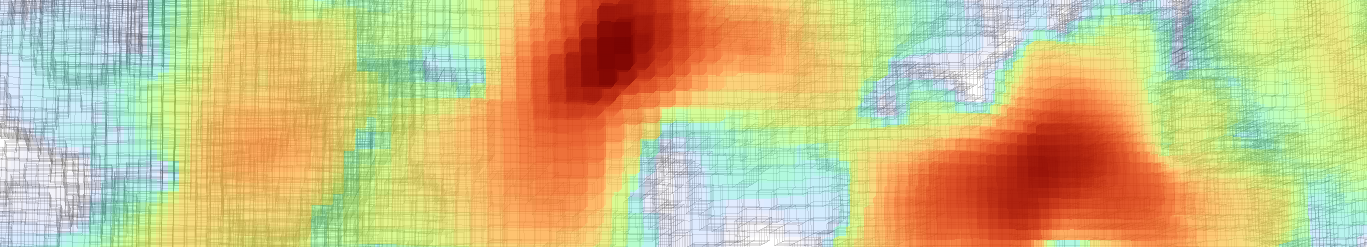
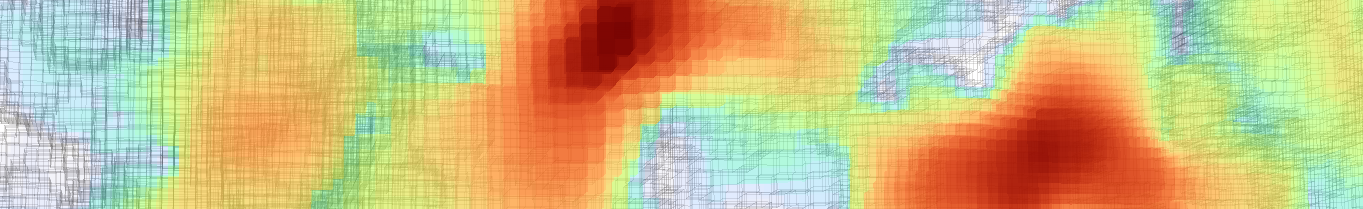
readme

diff --git a/README.md b/README.md
@@ -6,9 +6,12 @@
 
 `seevol` analyses line-of-sight visibility in 3D binary volumes, where 0 represents a solid/opaque voxel, and 1 represents open/transparent voxels. 
 
-The core functionality is based on the Amanatides & Woo voxel traversal algorithm <sup>1</sup> pair visibility and is implemented in C++ to compute straight line visibility between all pairs of open (non solid) voxels in a given volume.  
+The core functionality is based on the Amanatides & Woo voxel traversal algorithm <sup>1</sup> and is implemented in C++ to compute straight line visibility between all pairs of open (non solid) voxels in a given volume.  
 
-This tool tests visibility between all open pairs throughout the volume, allowing per-voxel visibility analysis metrics to be calculated downstream for every open voxel.
+This tool tests visibility between **all** open pairs throughout the volume, which permits per-voxel visibility analysis metrics to be calculated downstream for every open voxel.
+
+> [!WARNING]
+> `seevol` computes all-pairs visibility, which scales as O(open_voxels<sup>2</sup>). This becomes slow or memory-limiting beyond a few hundred thousand open voxels — see [Limitations](#limitations) before running on large volumes. Downsampling the volume is likely to help but will impact results.  
 
 ## Dependencies
 
@@ -32,18 +35,20 @@ uv pip install seevol
 
 ## Usage
 
-The core function `visible_pairs()` accepts a 3D binary (0 = solid, 1 = open) NumPy array as input and outputs two NumPy arrays: one containing the open voxel coordinates within the volume with shape (N, 3) called 'coords', and another with visible pair indices with shape(M, 2) called 'edges' and which refers to rows in 'coords'. (For example, if `edges[0]` is `[2, 7]`, the visibility edge connects `coords[2]` and `coords[7]` and these two voxels are visible to each other).  
+The core function `visible_pairs()` accepts a 3D binary (0 = solid, 1 = open) NumPy array as input and outputs two NumPy arrays:
 
-Users can load .npy files in Python using `np.load()`, and this can then be passed to `visible_pairs()`.  
+- `coords` — shape (N, 3), the open voxel coordinates in the volume  
+- `edges` — shape (M, 2), pairs of indices into `coords` for voxels that are mutually visible  
+
+For example, if `edges[0]` is `[2, 7]`,the visibility edge connects `coords[2]` and `coords[7]` and these two voxels are visible to each other via direct line of sight.  
+
+Users can load .npy files in Python using `np.load()` and pass the result to `visible_pairs()`.  
 
 Downstream analyses or visualisations are then possible from this output, such as visualising a 'visibility heatmap' using Pyvista (see below) 
 
 ## Limitations  
 
-This tool currently uses all-pair calculation using voxel ray traversal. Because of this, the ray traversal algorithm scales with O(open_voxels^2), and is therefore quickly unusable for large volumes.  
-
-> [!IMPORTANT]
-> Volumes with high open voxel counts will run very slowly or fail due to memory limits. Try and downsample the volume, although this will impact results.
+This tool currently uses all-pair calculation using voxel ray traversal. Because of this, the ray traversal algorithm scales as O(open_voxels<sup>2</sup>) and is therefore quickly unusable for large volumes.  
 
 A hard limit is imposed in the C++ source file which limits open voxels to 1,000,000. In reality, volumes with over 500,000 open voxels are likely to significant memory issues as very large visible edges will be stored. Methods to reduce this runtime will hopefully be introduced over time.
 
@@ -95,7 +100,7 @@ print(f"{len(coords)} open voxels containing {len(edges)} visible pairs")
 
 ## Visualisation examples on large artificial volumes
 
-Below shows an example output of the visibility score per voxel as a heatmap within an intricate 150x150x150 volume, generated using `tunnel_excavator()` to mimic an ant nest structure and visualised with Pyvista using `visibility_visualiser()`:  
+Below shows an example output of the visibility score per voxel as a heatmap within an intricate 150x150x150 volume, generated using `tunnel_excavator()` to mimic an ant-nest structure and visualised with Pyvista using `visibility_visualiser()`:  
 
 ![150_cubed](images/realistic_nest.png "150^3 ant excavation example volume")
 
